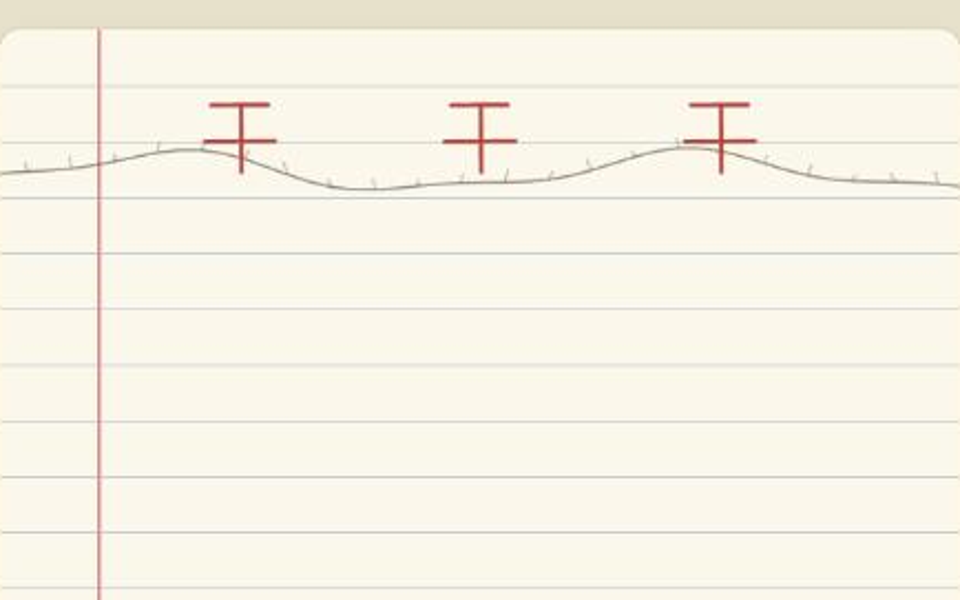
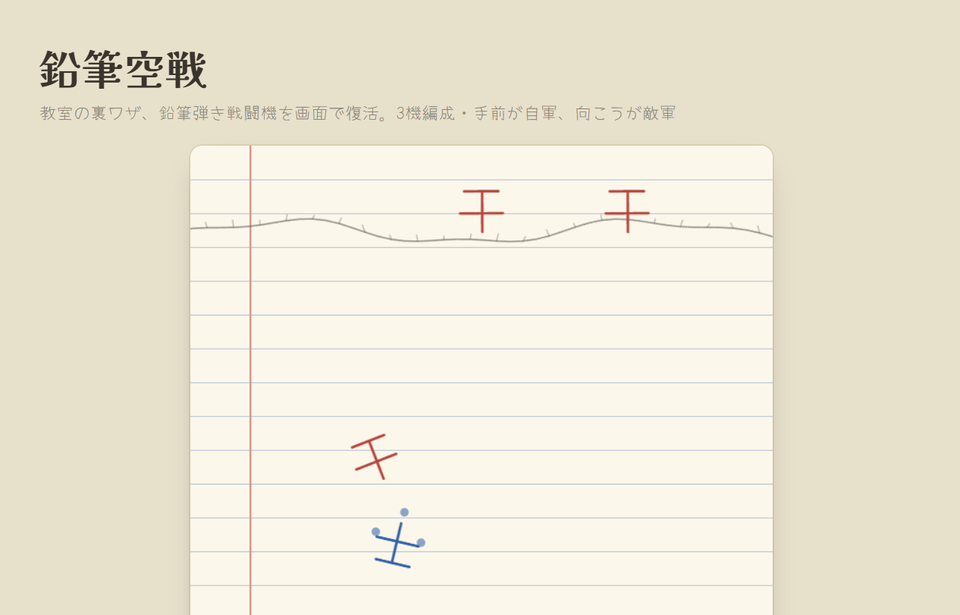
enpitsu_kusen: card.pngを撮り直し
縦長の盤面を目分量でだいたい16:10に切り出した新しい画面写真に差し替え。

diff --git a/goods/enpitsu_kusen/card.html b/goods/enpitsu_kusen/card.html
@@ -1,5 +1,5 @@
 <article class="card">
-  <div class="card-shot"><img src="goods/enpitsu_kusen/card.png" alt="鉛筆空戦の盤面。ノート風の紙に敵軍の機体" width="960" height="600"></div>
+  <div class="card-shot"><img src="goods/enpitsu_kusen/card.png" alt="鉛筆空戦の盤面。ノート風の紙に敵軍の機体" width="960" height="615"></div>
   <div class="card-body">
     <div class="card-meta"><span class="tag tag-stock">店頭在庫あり</span>あそびもの</div>
     <h3>鉛筆空戦</h3>
